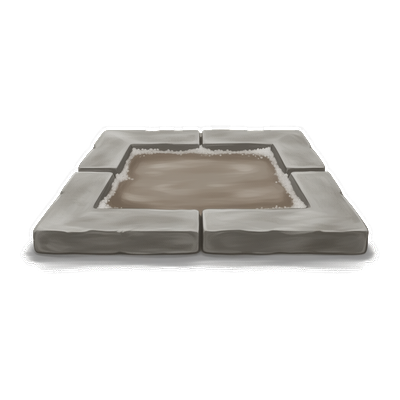
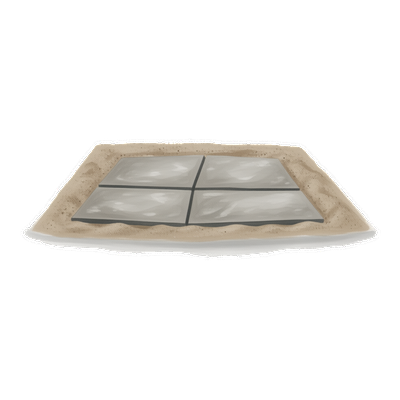
レビューの指摘を直す（塩田は石が底を張る・数えられる材を材料の数に合わせる）
塩田を定義（salt.yaml の laid）どおり、石が底・砂が周りの堤の形へ描き直した。石の継ぎ目を
床を横切る2本だけにして4枚が数えられるようにし、同じ誤りとして薪棚の屋根も、締める縄を
継ぎ目へ重ねて3枚が数えられるようにした。

Claude-Session: https://claude.ai/code/session_01RdoUVh8G1xzdVwQW72JaCu

Changed region(s): [[0.06, 0.3, 0.96, 0.69]]

diff --git a/tools/comfyui/layout_sketch.py b/tools/comfyui/layout_sketch.py
@@ -43,8 +43,7 @@ TARO = (124, 92, 64)
 TARO_DARK = (86, 62, 42)
 TARO_RING = (170, 142, 110)
 SAND = (196, 176, 140)
-# 縁に残った塩。**白にしない**——紙と同じ明るさだと card_art.py が背景として抜く。
-SALT = (206, 204, 196)
+SAND_DARK = (154, 136, 104)
 PAGE = (255, 255, 255)
 
 
@@ -716,17 +715,15 @@ def draw_firewood_rack(draw: ImageDraw.ImageDraw) -> None:
         while x < right - 14:
             draw.line([(x, y - 7), (x + lean, y + 7)], fill=LEAF_DARK, width=6)
             x += 44
-    # 葉3枚の継ぎ目。2本で3枚に割れる（材料がそのまま読める）。
+    # 葉3枚の継ぎ目と、そこを締める縄。**面を横切る線は、この2本より増やさない**——縄を継ぎ目と
+    # 別の位置へ置くと、数えられる区画が葉の枚数より多くなる（材料が読めなくなる）。
     for ratio in (1 / 3, 2 / 3):
-        draw.line(
-            [(back_left + (back_right - back_left) * ratio, back_y),
-             (front_left + (front_right - front_left) * ratio, front_y)],
-            fill=LEAF_DARK,
-            width=8,
-        )
-    # 屋根を脚へ締める縄。
-    for x in (400.0, 860.0):
-        draw.line([(x - 12, back_y + 8), (x + 12, front_y - 8)], fill=CORD_DARK, width=12)
+        seam = [
+            (back_left + (back_right - back_left) * ratio, back_y),
+            (front_left + (front_right - front_left) * ratio, front_y),
+        ]
+        draw.line(seam, fill=LEAF_DARK, width=10)
+        draw.line(seam, fill=CORD_DARK, width=6)
 
 
 def draw_drying_rack(draw: ImageDraw.ImageDraw) -> None:
@@ -813,26 +810,52 @@ def draw_pen(draw: ImageDraw.ImageDraw) -> None:
 
 
 def draw_salt_pan(draw: ImageDraw.ImageDraw) -> None:
-    """塩田。平たい石4枚で縁を作り、内側を砂の床にする。
+    """塩田。掻き分けた砂の窪みへ、平たい石4枚を並べて底を張る。
+
+    **底を張るのは石で、砂は退ける側**（src/assets/world-codex/salt.yaml の `laid`）。石を縁に
+    回して内側を砂の床にすると、材料（石4つ）が底ではなく枠になり、定義と逆の作りになる。
 
     **生成では石にならない**（盤の形は出るが、材質が白い漆喰の箱になる。白いものは紙と同じ
     明るさで切り出せない。prompts/objects.json の salt_pan 参照）。
 
-    **石が4枚に割れて見えることが、材料（石4つ）の手掛かり。** 外周の角と内周の角を結ぶ継ぎ目で
-    割る。**張った海水も採れた塩も描かない**（どちらも枠と数の中身）。
+    **床が4枚に割れて見えることが、材料（石4つ）の手掛かり。** 継ぎ目は床を横切る2本だけで、
+    外周には置かない——外周にも継ぎ目を入れると1枚が2枚に割れて見え、数えると材料より多くなる。
+
+    **張った海水も、採れた塩も、乾いた塩の跡も描かない**（前2つは枠と数の中身）。跡も置かない
+    のは、**白で塗られるとそれが縁になる**から——灰色で頼んでも Qwen は白い結晶として描き、
+    床を一周する白い枠になって、石が底ではなく縁に見える。
     """
-    outer = [(322.0, 396.0), (830.0, 396.0), (1002.0, 660.0), (150.0, 660.0)]
-    inner = [(404.0, 462.0), (748.0, 462.0), (856.0, 596.0), (296.0, 596.0)]
-    draw.polygon(outer, fill=STONE, outline=OUTLINE, width=4)
-    # 手前の石は陰。盤が低く、内側が掘れていることが出る。
-    draw.polygon([outer[2], outer[3], inner[3], inner[2]], fill=STONE_DARK, outline=OUTLINE, width=4)
-    # 石4枚の継ぎ目。
-    for corner_out, corner_in in zip(outer, inner):
-        draw.line([corner_out, corner_in], fill=OUTLINE, width=4)
-    # 盤の床。砂を敷いて水が抜けないようにした面。
-    draw.polygon(inner, fill=SAND, outline=OUTLINE, width=4)
-    # 縁に残った塩。**白で置かない**——紙と同じ明るさになり、切り出しで縁ごと食われる。
-    draw.line([*inner, inner[0]], fill=SALT, width=14, joint="curve")
+    # 床の外周（4枚の石が作る輪郭）と、継ぎ目が集まる点。**継ぎ目をちょうど中央へ置かない**
+    # ——揃えると敷き詰めた床板に見え、拾って並べた石にならない。
+    back_left, back_right = (386.0, 446.0), (770.0, 450.0)
+    front_right, front_left = (888.0, 604.0), (262.0, 600.0)
+    back, right = (592.0, 440.0), (826.0, 528.0)
+    front, left = (546.0, 614.0), (326.0, 518.0)
+    centre = (562.0, 526.0)
+    rim = [back_left, back, back_right, right, front_right, front, front_left, left]
+
+    # 掻き分けた砂。床を囲う低い堤で、**縁は不揃いにする**——直線で引くと、石を載せた砂の板に見える。
+    heap = [
+        (point[0] + (point[0] - centre[0]) * 0.34 + 16 * math.sin(index * 2.1),
+         point[1] + (point[1] - centre[1]) * 0.44 + 11 * math.sin(index * 1.4))
+        for index, point in enumerate(rim)
+    ]
+    draw.polygon(heap, fill=SAND, outline=OUTLINE, width=4)
+    # 床に面した手前側の砂は陰。**床の縁に沿わせる**——水平に割ると、砂そのものに継ぎ目が入る。
+    draw.polygon(
+        [right, front_right, front, front_left, left, heap[7], heap[6], heap[5], heap[4], heap[3]],
+        fill=SAND_DARK,
+        outline=OUTLINE,
+        width=4,
+    )
+
+    for slab, fill in (
+        ([back_left, back, centre, left], STONE),
+        ([back, back_right, right, centre], STONE),
+        ([centre, right, front_right, front], STONE_DARK),
+        ([left, centre, front, front_left], STONE_DARK),
+    ):
+        draw.polygon(slab, fill=fill, outline=OUTLINE, width=4)
 
 
 def draw_field(draw: ImageDraw.ImageDraw) -> None:
